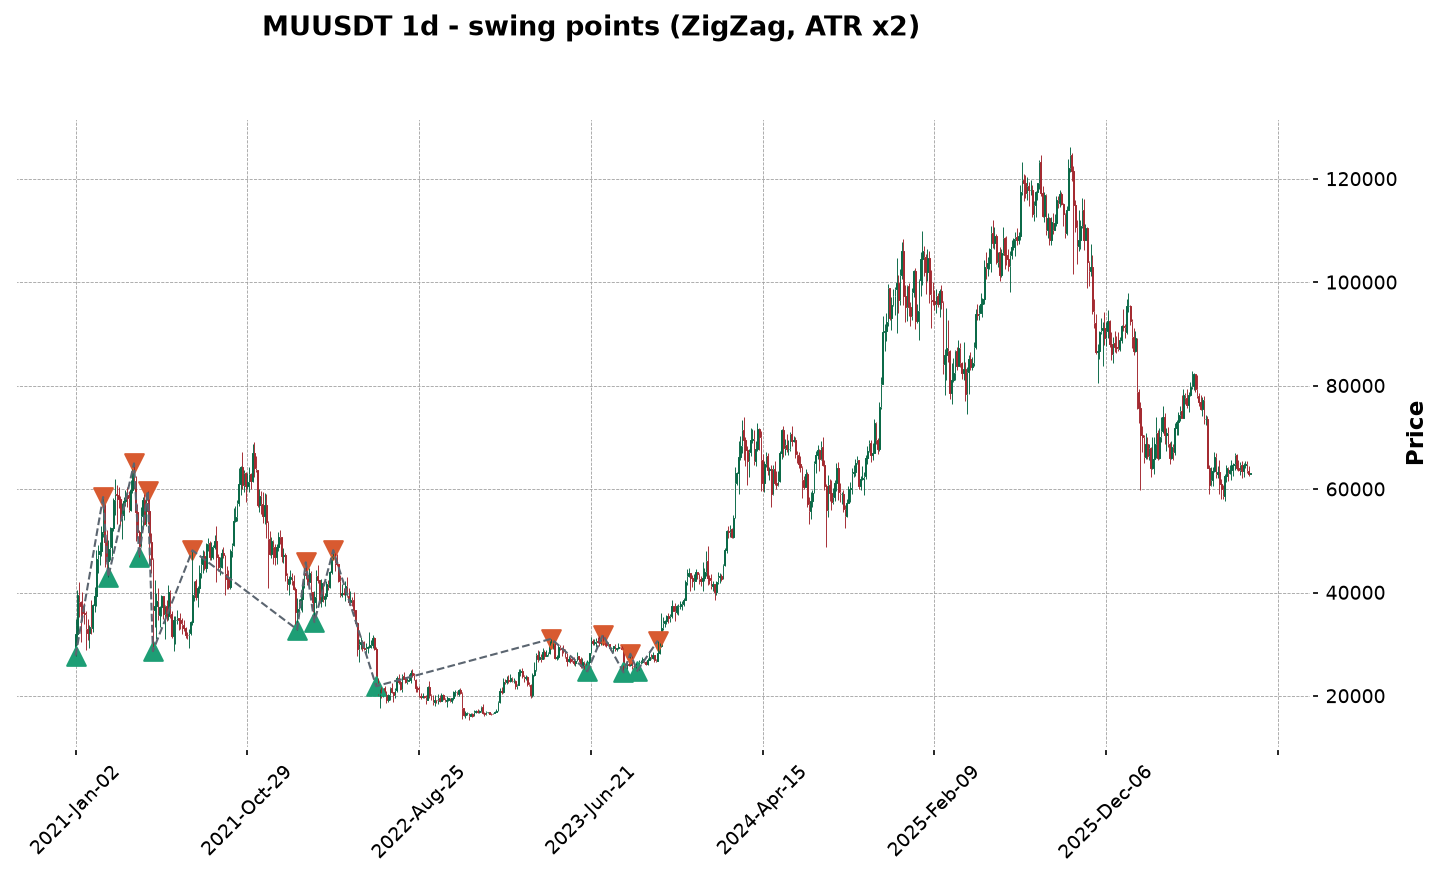
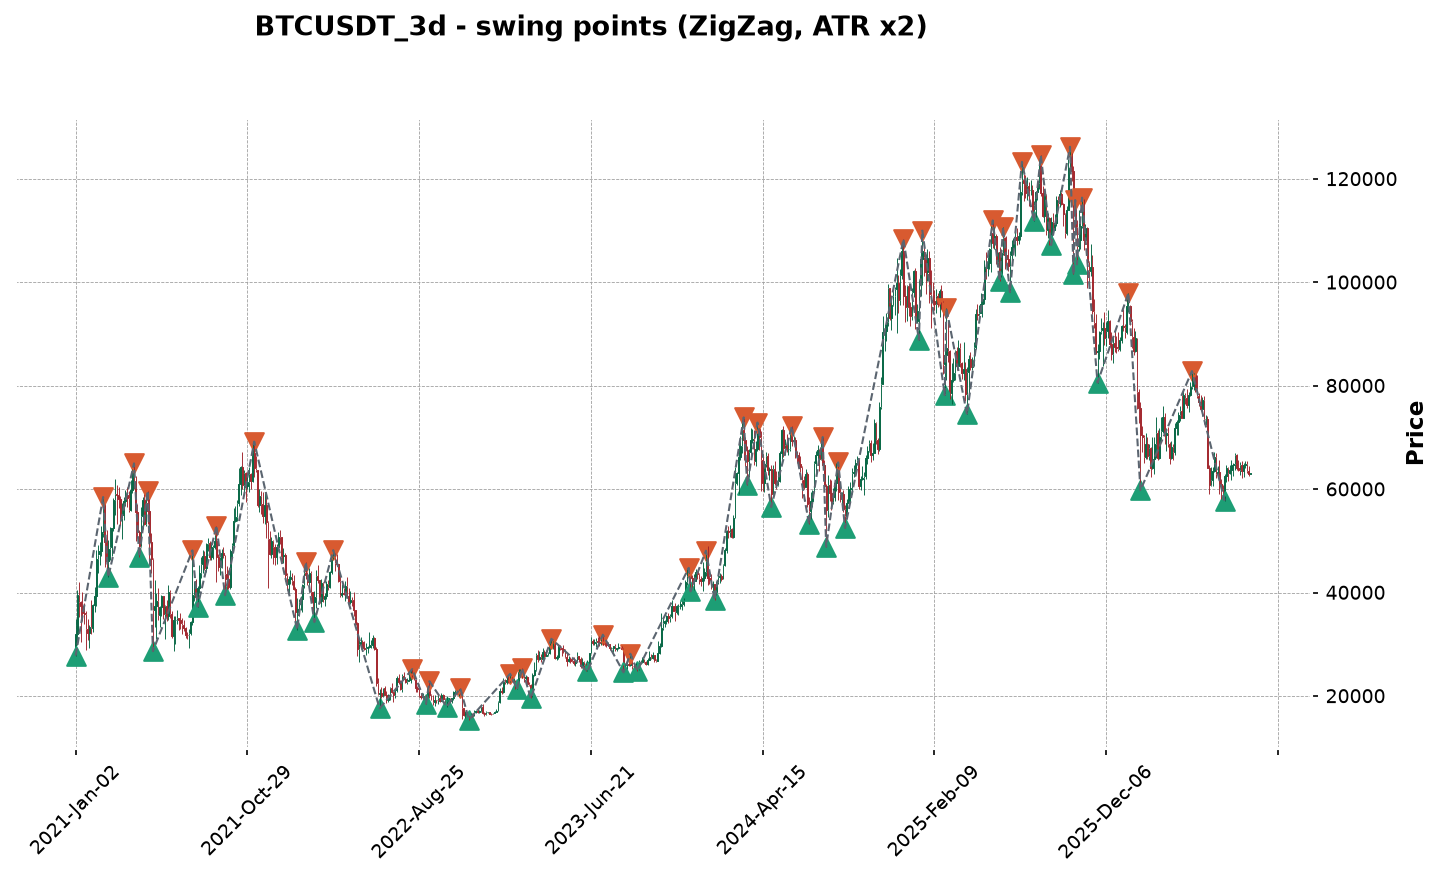
zigzag working

diff --git a/python/zigzag/swingPoints.py b/python/zigzag/swingPoints.py
@@ -89,53 +89,48 @@ def detectSwingPoints(
     candidateHighIndex = 0
     candidateLowPrice = lows[0]
     candidateLowIndex = 0
-    lastPivotIndex: Optional[int] = None  # bar index of the most recently confirmed pivot
 
     for i in range(1, barCount):
         if state in (None, SearchState.SEARCHING_HIGH):
-            if highs[i] > candidateHighPrice:
-                candidateHighPrice = highs[i]
-                candidateHighIndex = i
-
-        if state in (None, SearchState.SEARCHING_LOW):
-            if lows[i] < candidateLowPrice:
-                candidateLowPrice = lows[i]
-                candidateLowIndex = i
-
-        if state in (None, SearchState.SEARCHING_HIGH):
+            # Check reversal FIRST, using the candidate as it stood before this
+            # bar. Only if no reversal fires does this bar's own high get to
+            # extend the candidate. This ordering is what guarantees a single
+            # bar can never both set a brand-new extreme AND confirm a reversal
+            # against that same, just-set extreme in one step.
             dropFromHigh = candidateHighPrice - lows[i]
-            # A single wide-range bar can set a new high candidate and, on the
-            # very next bar, also look confirmable as the low - guard against
-            # stamping a high and a low pivot on the same bar back to back.
-            if dropFromHigh >= thresholdAt(candidateHighIndex, candidateHighPrice) \
-                    and candidateHighIndex != lastPivotIndex:
+            if dropFromHigh >= thresholdAt(candidateHighIndex, candidateHighPrice):
                 swings.append(SwingPoint(
                     barIndex=candidateHighIndex,
                     openTime=pd.Timestamp(openTimes[candidateHighIndex]),
                     price=float(candidateHighPrice),
                     isHigh=True,
                 ))
-                lastPivotIndex = candidateHighIndex
                 state = SearchState.SEARCHING_LOW
                 candidateLowPrice = lows[i]
                 candidateLowIndex = i
                 continue
 
+            if highs[i] > candidateHighPrice:
+                candidateHighPrice = highs[i]
+                candidateHighIndex = i
+
         if state in (None, SearchState.SEARCHING_LOW):
             riseFromLow = highs[i] - candidateLowPrice
-            if riseFromLow >= thresholdAt(candidateLowIndex, candidateLowPrice) \
-                    and candidateLowIndex != lastPivotIndex:
+            if riseFromLow >= thresholdAt(candidateLowIndex, candidateLowPrice):
                 swings.append(SwingPoint(
                     barIndex=candidateLowIndex,
                     openTime=pd.Timestamp(openTimes[candidateLowIndex]),
                     price=float(candidateLowPrice),
                     isHigh=False,
                 ))
-                lastPivotIndex = candidateLowIndex
                 state = SearchState.SEARCHING_HIGH
                 candidateHighPrice = highs[i]
                 candidateHighIndex = i
                 continue
+
+            if lows[i] < candidateLowPrice:
+                candidateLowPrice = lows[i]
+                candidateLowIndex = i
 
     return swings
 

diff --git a/python/zigzag/plotSwingpoints.py b/python/zigzag/plotSwingpoints.py
@@ -75,11 +75,11 @@ def plotCandlesWithSwings(klines: pd.DataFrame, swings: list[SwingPoint],
 
 
 if __name__ == "__main__":
-    klines = loadKlines("data/BTCUSDT_3d.parquet")
+    klines = loadKlines("data/SNDKUSDT_4h.parquet")
     swings = detectSwingPoints(klines.reset_index(), useAtr=True, atrPeriod=14, atrMultiple=2.0)
 
     plotCandlesWithSwings(
         klines, swings,
-        title="MUUSDT 1d - swing points (ZigZag, ATR x2)",
-        savePath="output/BTCUSDT_3d_swings.png",
+        title="SNDKUSDT_4h - swing points (ZigZag, ATR x2)",
+        savePath="output/SNDKUSDT_4h_swings.png",
     )

diff --git a/getKline.py b/getKline.py
@@ -61,17 +61,18 @@ def get_future_klines(symbol, interval, start, end):
     return df
 
 
-for symbol in ["BTCUSDT", "ETHUSDT"]:
+# for symbol in ["BTCUSDT", "ETHUSDT"]:
+for symbol in ["SKHYNIXUSDT"]:
 
     df = get_future_klines(
         symbol,
-        "3d",
-        "2021-01-01 00:00:00",
+        "4h",
+        "2026-06-01 00:00:00",
         "2026-08-26 00:00:00"
     )
 
     df.to_parquet(
-        f"{symbol}_3d.parquet",
+        f"data/{symbol}_4h.parquet",
         index=False
     )
 
